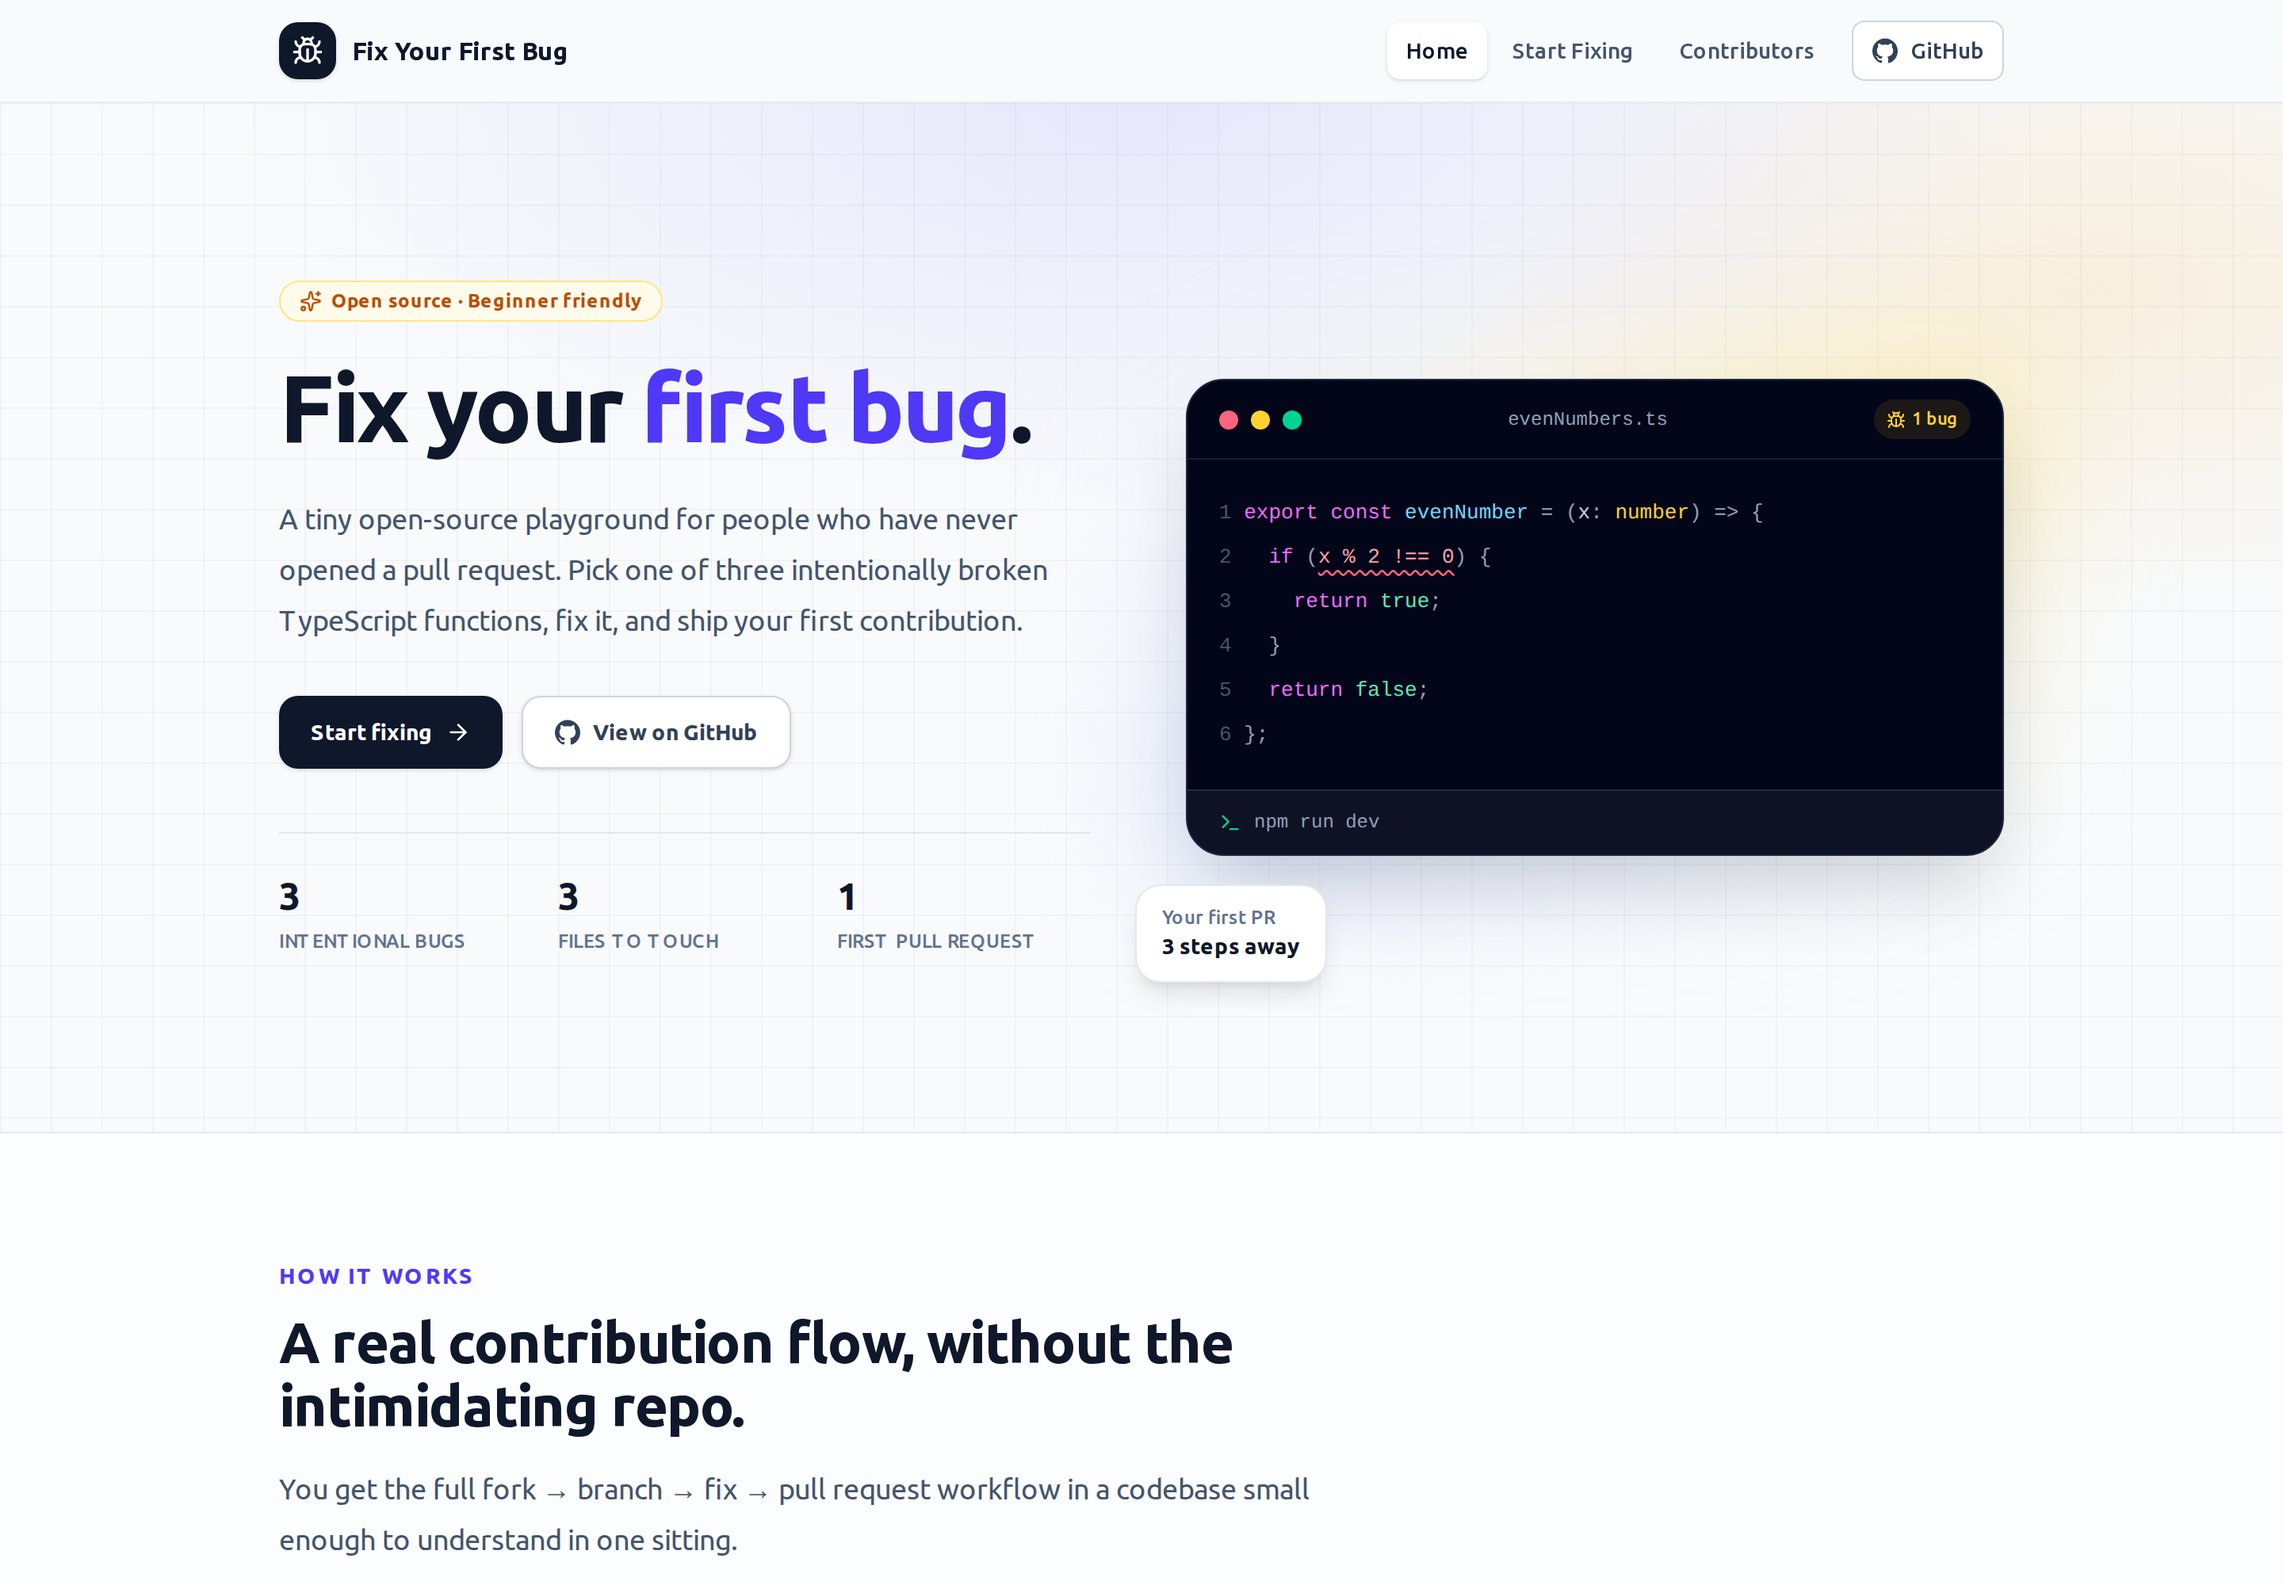
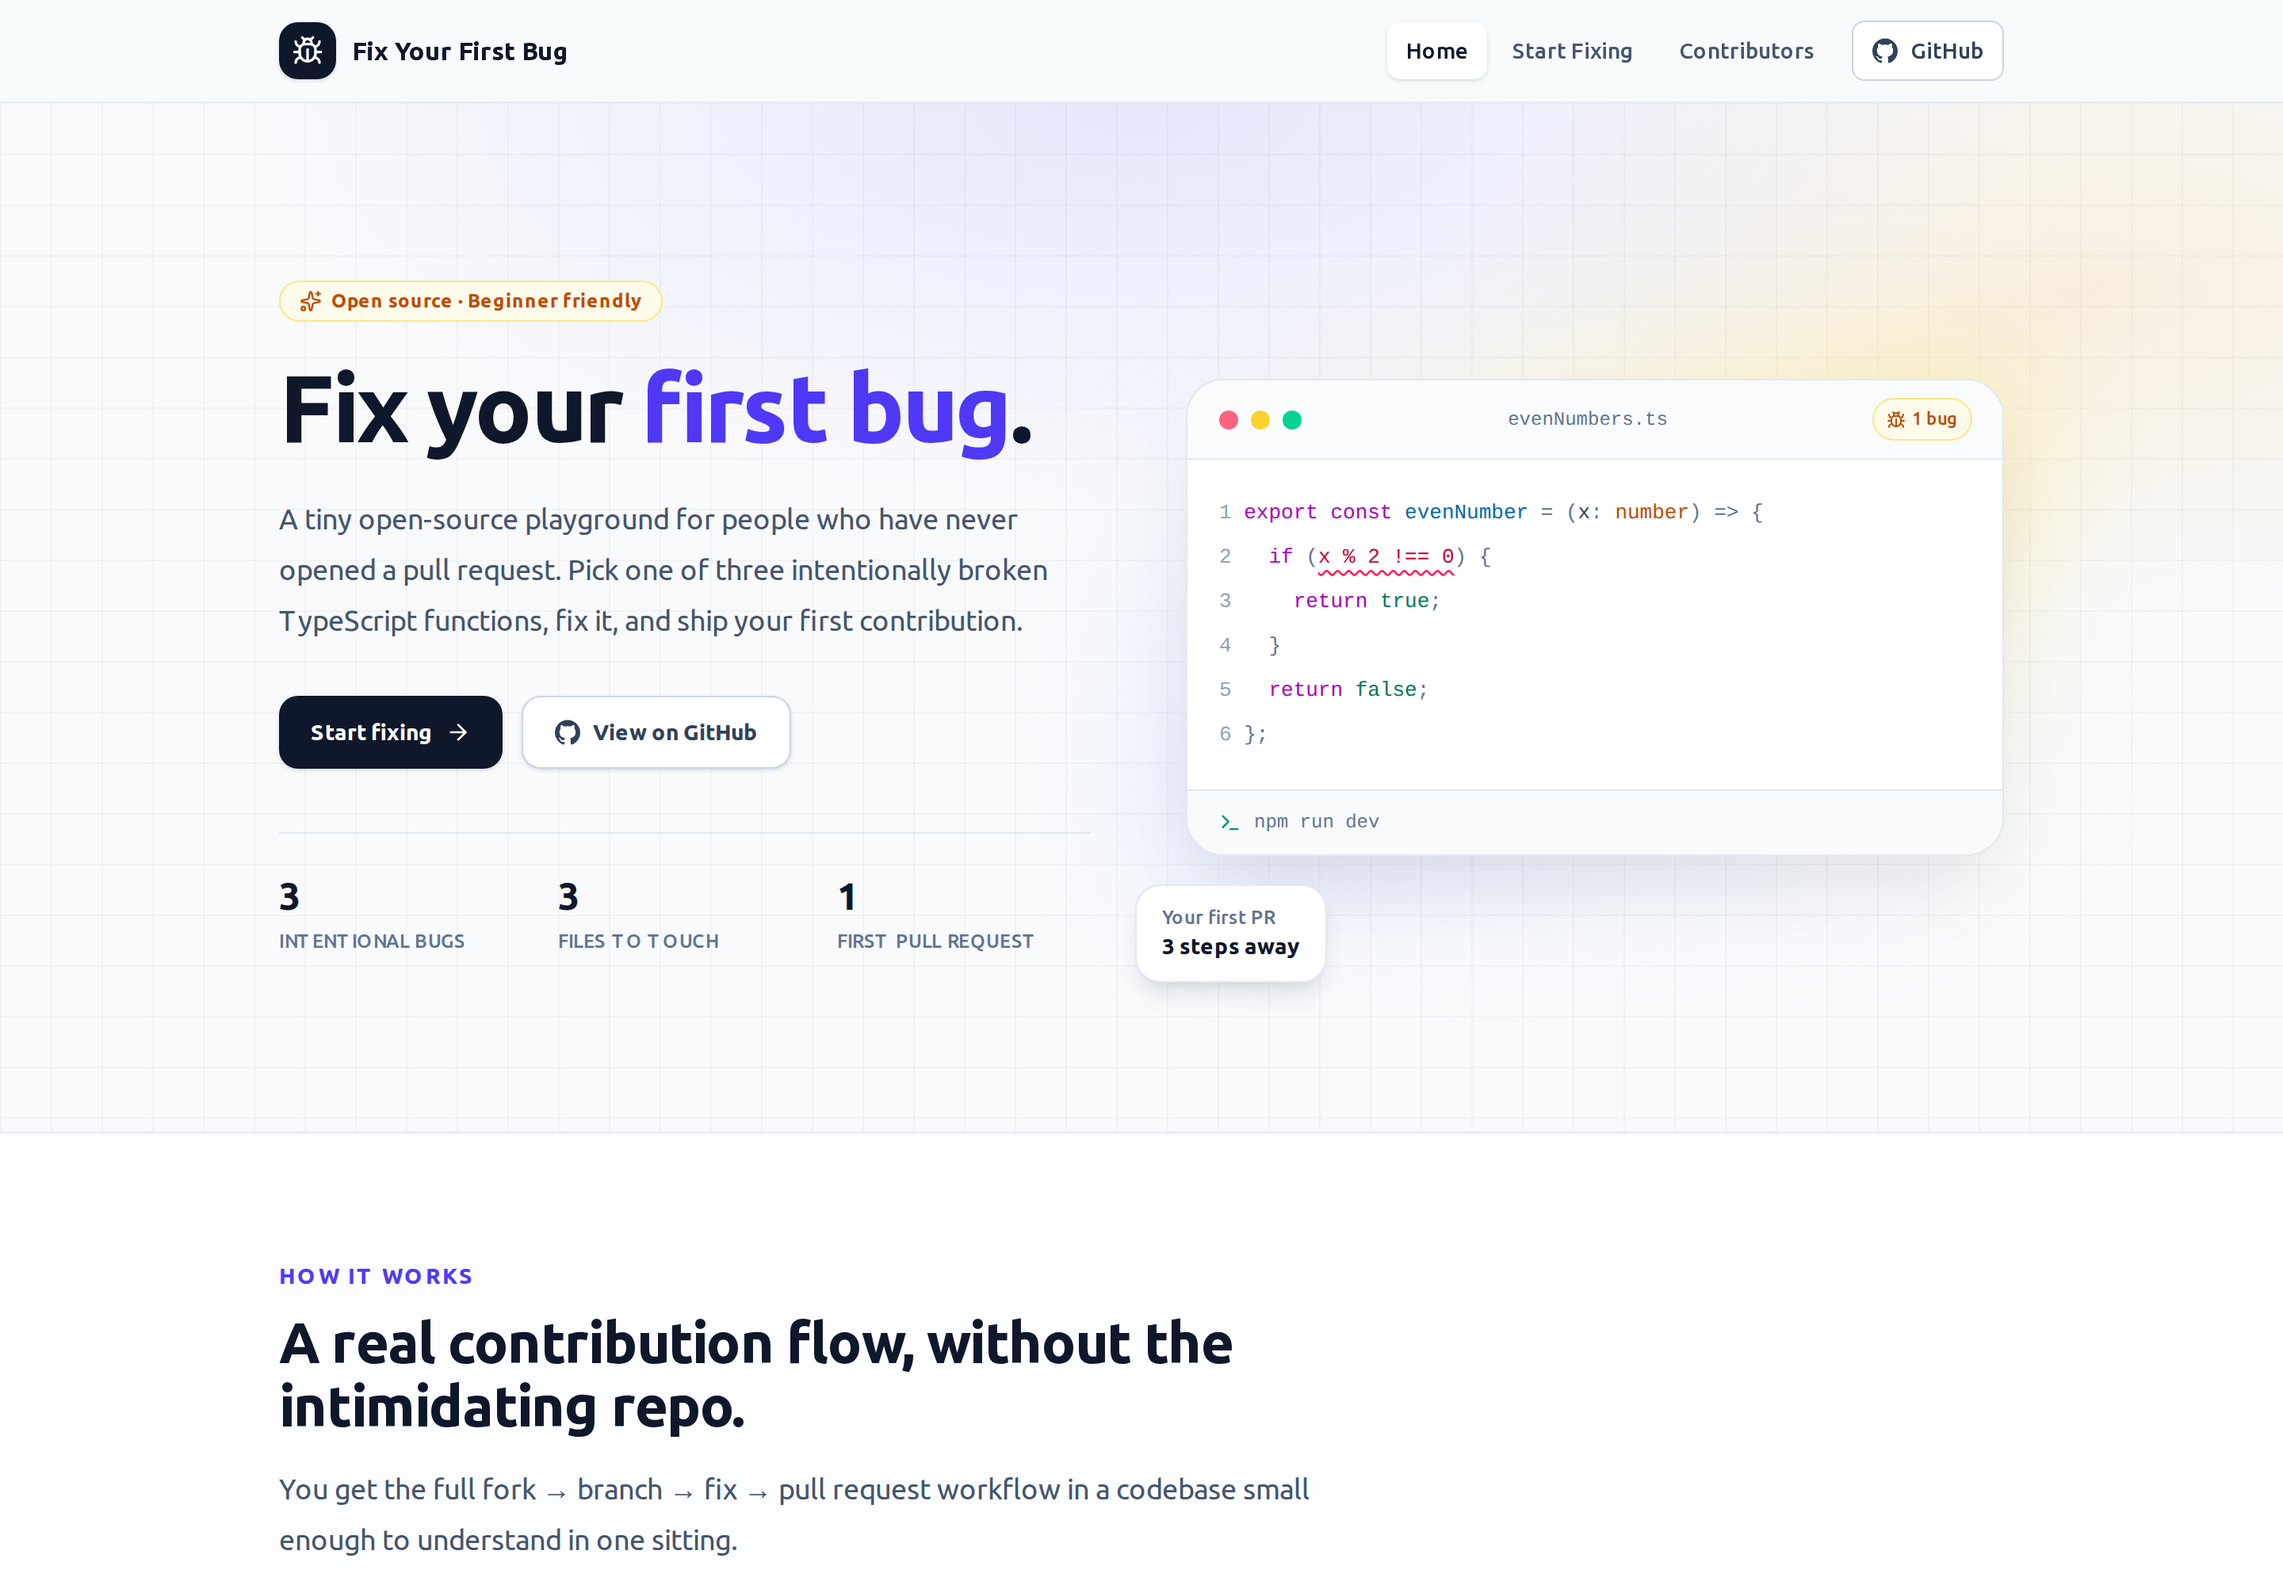
docs: surface live demo links and refresh screenshot

Changed region(s): [[0.5, 0.217, 0.875, 0.558]]

diff --git a/README.md b/README.md
@@ -2,6 +2,7 @@
 
 > A tiny open-source playground for people who have never opened a pull request.
 
+[![Live Demo](https://img.shields.io/badge/Live_Demo-fix--your--first--bug.vercel.app-4f46e5)](https://fix-your-first-bug.vercel.app/)
 [![CI](https://github.com/dev-himel-0o0/fix-your-first-bug/actions/workflows/ci.yml/badge.svg)](https://github.com/dev-himel-0o0/fix-your-first-bug/actions/workflows/ci.yml)
 [![License: MIT](https://img.shields.io/badge/License-MIT-amber.svg)](LICENSE)
 [![Next.js 16](https://img.shields.io/badge/Next.js-16.4.6-black.svg)](https://nextjs.org)
@@ -17,15 +18,15 @@ Most "good first issue" labels live in repositories with thousands of files. Tha
 
 ## Screenshot
 
-![Fix Your First Bug home page](docs/images/screenshot-home.png)
+[![Fix Your First Bug home page](docs/images/screenshot-home.png)](https://fix-your-first-bug.vercel.app/)
 
-_The landing page: a short explanation, a live preview of one of the bugs, and a direct route into the bug board._
+_The landing page: a short explanation, a live preview of one of the bugs, and a direct route into the bug board. Click the screenshot to open the live app._
 
 ## Live Demo & Links
 
 | Resource | Link |
 | --- | --- |
-| **Live project** | [fix-your-first-bug.vercel.app](https://fix-your-first-bug.vercel.app) |
+| **Live project** | [fix-your-first-bug.vercel.app](https://fix-your-first-bug.vercel.app/) |
 | **Source code** | [github.com/dev-himel-0o0/fix-your-first-bug](https://github.com/dev-himel-0o0/fix-your-first-bug) |
 | **Contribution guide** | [CONTRIBUTING.md](CONTRIBUTING.md) |
 | **Changelog & releases** | [CHANGELOG.md](CHANGELOG.md) · [v2.0.0 release](https://github.com/dev-himel-0o0/fix-your-first-bug/releases/tag/v2.0.0) |
@@ -137,6 +138,8 @@ Everything below is declared in [`package.json`](package.json). Transitive depen
 - **A fresh history without losing the original.** The old Create React App implementation remains available in the [original upstream repository](https://github.com/c0der-himel/fix-your-first-bug), while the rewrite started from an orphan branch with a clean, single-purpose commit history.
 
 ## Run Locally
+
+Prefer to see the finished app first? Open the [live demo](https://fix-your-first-bug.vercel.app/) before setting up a local copy.
 
 ### Prerequisites
 
@@ -251,7 +254,7 @@ Copy `.env.example` to `.env.local` for local overrides. All variables are optio
 
 ## Deployment
 
-The app deploys to Vercel with zero extra configuration:
+The app deploys to Vercel with zero extra configuration. The maintained production deployment is live at [fix-your-first-bug.vercel.app](https://fix-your-first-bug.vercel.app/).
 
 1. Import the repository at [vercel.com/new](https://vercel.com/new).
 2. Set `NEXT_PUBLIC_GITHUB_REPO` and `NEXT_PUBLIC_SITE_URL` in Project Settings → Environment Variables.

diff --git a/CONTRIBUTING.md b/CONTRIBUTING.md
@@ -4,6 +4,8 @@ Thanks for being here. This project exists so that your first open-source contri
 
 The whole app has three bugs. Fix one of them, or improve the project itself. Every pull request gets a Vercel preview deployment, and the CI workflow runs lint, type checks, a production build, and the Playwright suite.
 
+The maintained deployment is live at [fix-your-first-bug.vercel.app](https://fix-your-first-bug.vercel.app/). You can explore the finished app there before setting up a local copy.
+
 ## Before you start
 
 - **Node.js 20.9 or newer** (CI uses Node 22; see `.nvmrc`).
